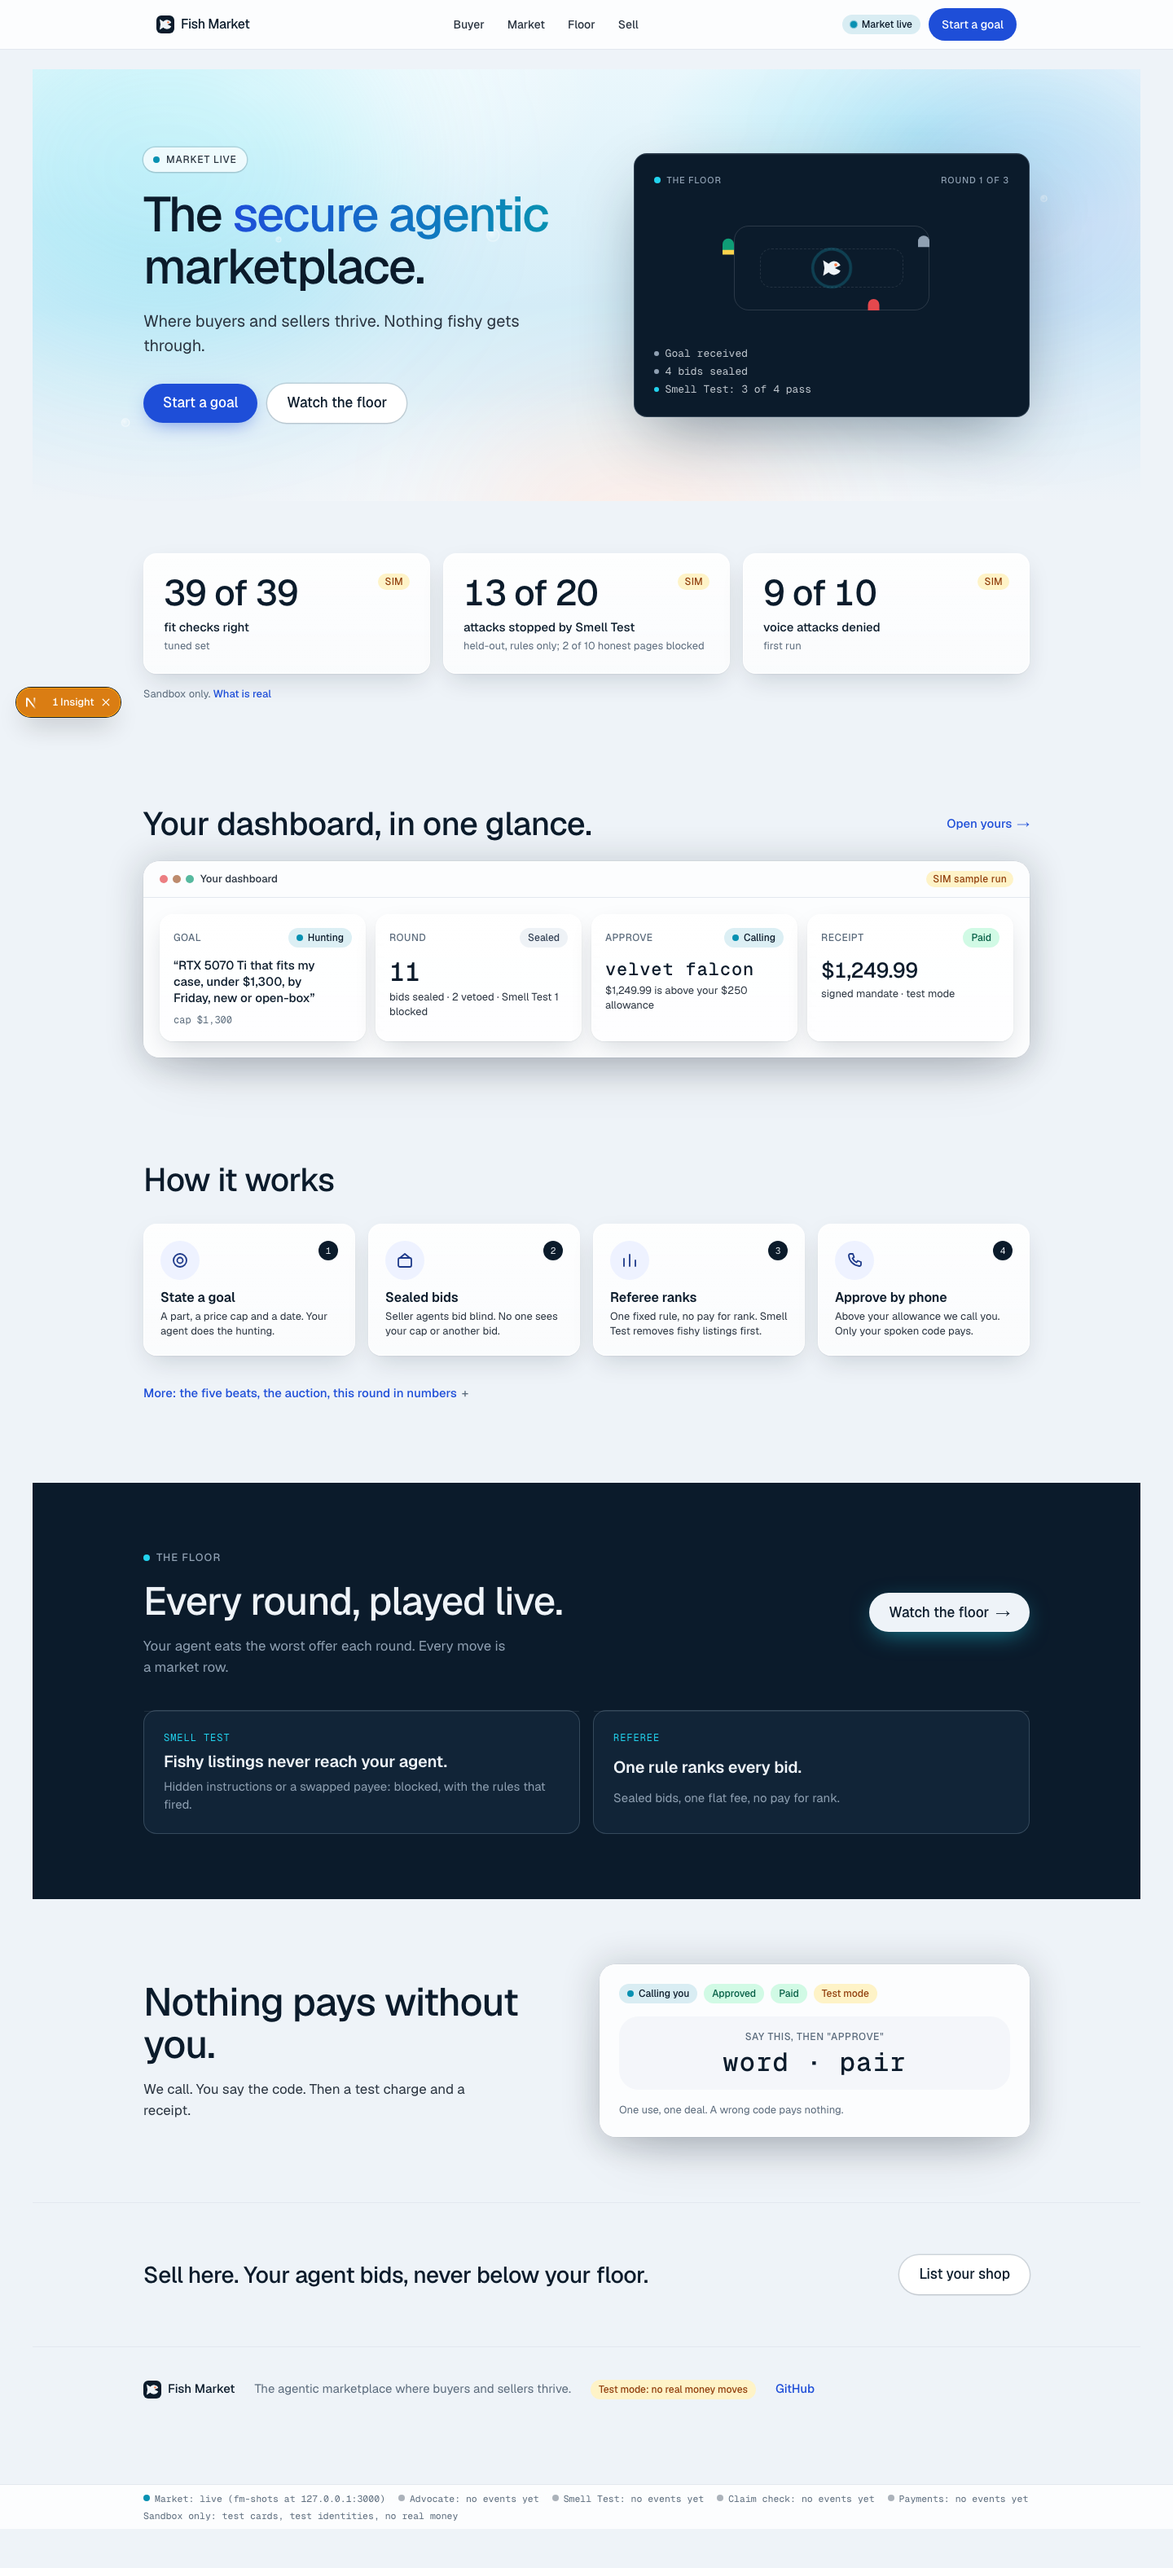
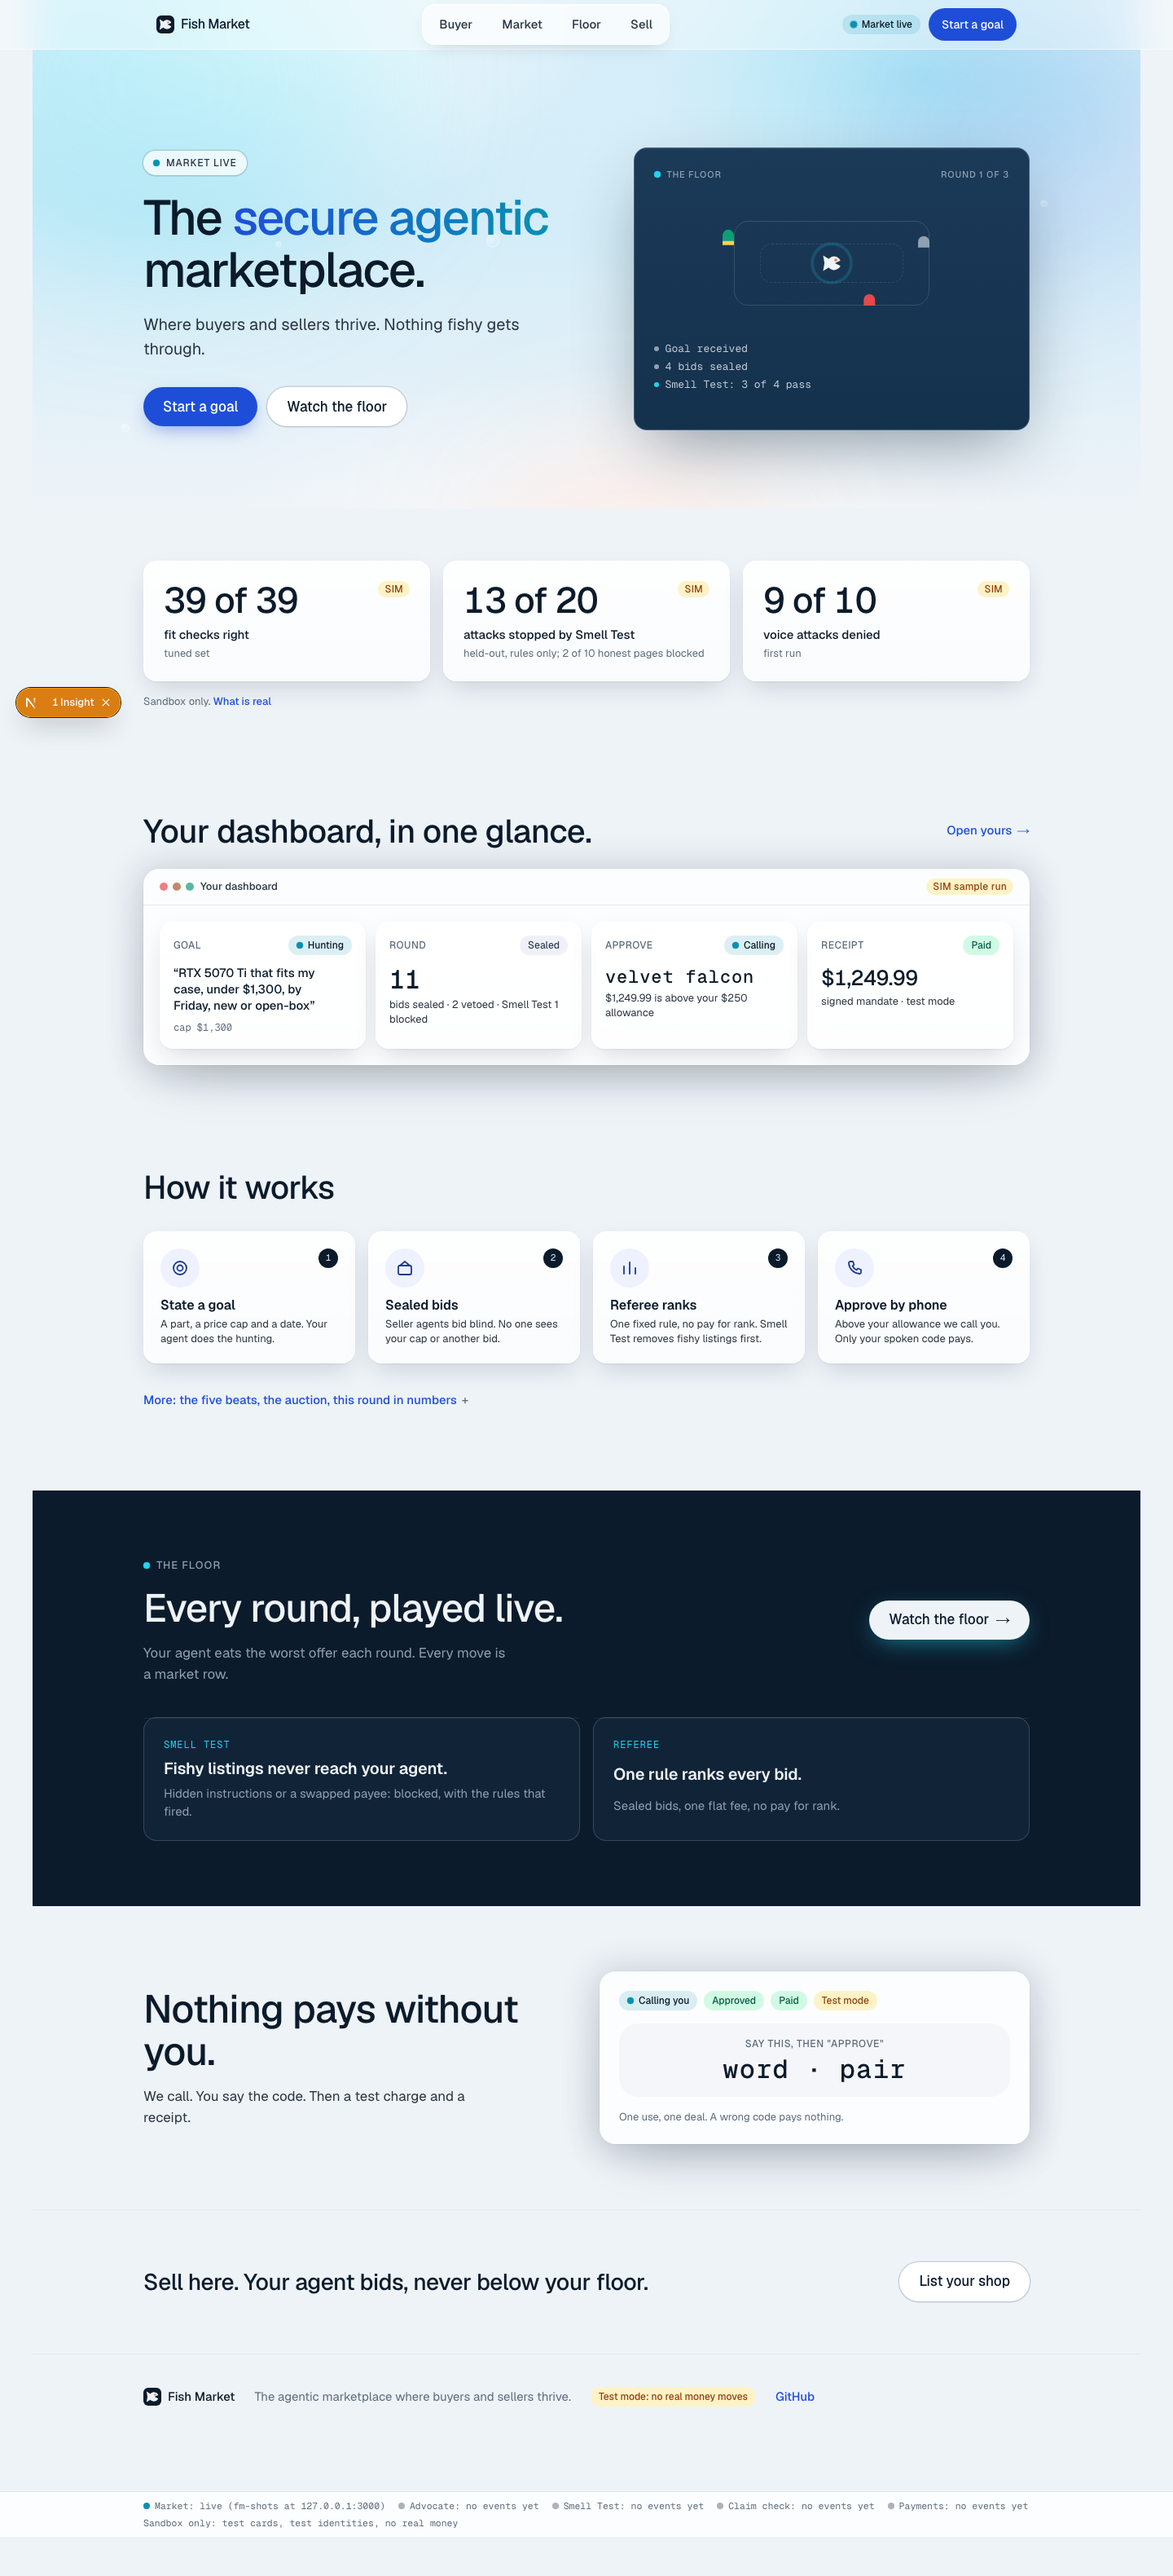
#448 round 5: a boxed glass nav that blends into the water, a lighter miniature, a steady status box
Vidyut's fifth round: the plain nav links, the miniature still too dark, and the typed status lines resizing their box.

- Header: translucent over the page, nav tabs in a glass box with an ink active tab and a press state; the hero water runs up under it
- globals.css: the header is sticky at the stylesheet level, because unlayered rules beat Tailwind's layered utilities and the old rule made it position relative
- Floor miniature: a lighter navy gradient; the four status lines are always laid out and fade in, so the box never changes height

diff --git a/web/src/components/shell.tsx b/web/src/components/shell.tsx
@@ -28,7 +28,7 @@ export function AppHeader() {
         key={n.href}
         href={n.href}
         aria-current={on ? "page" : undefined}
-        className={`inline-flex min-h-11 shrink-0 items-center rounded-lg px-3 text-[14px] font-medium transition-colors ${on ? "bg-surface-2 text-ink" : "text-ink-2 hover:text-ink"}`}
+        className={`btn inline-flex min-h-10 shrink-0 items-center rounded-xl px-4 text-[15px] font-medium transition-[background-color,box-shadow,transform] ${on ? "bg-ink text-canvas shadow-[0_6px_16px_-6px_rgba(11,27,43,0.5)]" : "text-ink-2 hover:bg-white/70 hover:text-ink hover:shadow-ring"}`}
       >
         {n.label}
       </Link>
@@ -36,12 +36,12 @@ export function AppHeader() {
   });
 
   return (
-    <header className="sticky top-0 z-40 border-b border-line bg-glass backdrop-blur-xl">
+    <header className="sticky top-0 z-40 border-b border-white/50 bg-white/35 backdrop-blur-xl">
       <nav aria-label="Main" className="mx-auto flex h-[60px] max-w-[1120px] items-center justify-between gap-4 px-4 md:px-8">
         <Link href="/" aria-label={`${BRAND} home`} className="inline-flex min-h-11 shrink-0 items-center">
           <Wordmark />
         </Link>
-        <div className="hidden items-center gap-1 md:flex">{links}</div>
+        <div className="hidden items-center gap-1 rounded-2xl border border-white/70 bg-white/45 p-1 shadow-[inset_0_1px_0_rgba(255,255,255,0.9),0_8px_24px_-12px_rgba(11,27,43,0.25)] backdrop-blur-xl md:flex">{links}</div>
         <div className="flex items-center gap-2.5">
           <LivePill on={conn.isActive} />
           {path !== "/start" && !path.startsWith("/buyer") && (
@@ -51,7 +51,7 @@ export function AppHeader() {
           )}
         </div>
       </nav>
-      <div className="flex gap-1 overflow-x-auto px-3 pb-1.5 [scrollbar-width:none] md:hidden">{links}</div>
+      <div className="mx-3 mb-2 flex gap-1 overflow-x-auto rounded-2xl border border-white/70 bg-white/45 p-1 [scrollbar-width:none] md:hidden">{links}</div>
     </header>
   );
 }

diff --git a/web/src/components/FloorMini.tsx b/web/src/components/FloorMini.tsx
@@ -26,7 +26,7 @@ export function FloorMini({ className = "" }: { className?: string }) {
   }, [reduce]);
   return (
     <div
-      className={`relative overflow-hidden rounded-2xl border border-[rgba(214,235,253,0.19)] bg-floor-bg p-5 text-floor-line shadow-[0_30px_80px_-20px_rgba(11,27,43,0.45)] md:p-6 ${className}`}
+      className={`relative overflow-hidden rounded-2xl border border-[rgba(214,235,253,0.22)] bg-[linear-gradient(180deg,#1b3a58_0%,#14314c_100%)] p-5 text-floor-line shadow-[0_30px_80px_-20px_rgba(11,27,43,0.45)] md:p-6 ${className}`}
       aria-label="The floor, in miniature"
       role="img"
     >
@@ -50,8 +50,8 @@ export function FloorMini({ className = "" }: { className?: string }) {
         ))}
       </div>
       <ol className="mt-4 grid gap-1 font-mono text-[13px] leading-[18px] text-floor-line/80">
-        {LINES.slice(0, shown).map((l, i) => (
-          <li key={l} className="fm-line flex items-center gap-2">
+        {LINES.map((l, i) => (
+          <li key={l} className={`flex items-center gap-2 transition-opacity duration-300 ${i < shown ? "opacity-100" : "opacity-0"}`} aria-hidden={i >= shown}>
             <span className={`h-1.5 w-1.5 rounded-full ${i === shown - 1 ? "bg-shield" : "bg-ghost-1"}`} aria-hidden />
             {l}
           </li>

diff --git a/web/src/app/page.tsx b/web/src/app/page.tsx
@@ -43,7 +43,7 @@ export default function Home() {
       <ScrollProgress />
 
       {/* 1. Hero: the aquarium. */}
-      <section className="relative overflow-hidden bg-[linear-gradient(180deg,#eaf7fc_0%,#d4edf8_55%,#eef3f8_100%)] px-4">
+      <section className="relative -mt-[84px] overflow-hidden bg-[linear-gradient(180deg,#d7eef9_0%,#d4edf8_45%,#eef3f8_100%)] px-4 pt-[84px] max-md:-mt-[132px] max-md:pt-[132px]">
         <div className="fm-caustic" aria-hidden />
         <div className="fm-orb fm-orb-a left-[-8%] top-[-20%] h-[420px] w-[520px] bg-[rgba(34,211,238,0.22)]" aria-hidden />
         <div className="fm-orb fm-orb-b right-[-6%] top-[0%] h-[360px] w-[420px] bg-[rgba(30,78,216,0.12)]" aria-hidden />

diff --git a/web/src/app/globals.css b/web/src/app/globals.css
@@ -231,7 +231,9 @@ body {
 @keyframes orbit { to { transform: rotate(360deg) } }
 @keyframes beacon { 0%, 100% { opacity: .35; transform: scale(1) } 50% { opacity: .9; transform: scale(1.08) } }
 
-main, header, footer { position: relative; z-index: 1; }
+main, footer { position: relative; z-index: 1; }
+/* Unlayered rules beat Tailwind's layered utilities, so the sticky header is set here, not in a class. */
+header { position: sticky; top: 0; z-index: 40; }
 ::selection { background: var(--color-pulse); color: var(--color-pulse-ink); }
 
 /* Glass card (one per screen), the live dot (Prism's heartbeat) and the 8 px rise. */

diff --git a/docs/board/B.md b/docs/board/B.md
@@ -34,3 +34,4 @@ Append your own lines here only: `- [HH:MM] what you did or need | @who`. Each l
 - [04:40] #448 review fixes on PR #450 (+ Vidyut's second round in chat): caveats on every proof number, the old home sections restored under a More toggle below the steps, fish instead of people in the corral and the miniature, koi orb, glass step cards in a swipeable row, scroll progress bar, tactile buttons; 301 words with the ticker counted twice; web 290 tests, build green | @Vidyut merge order #438, #450, #454
 - [05:10] #448 round 3 on PR #450: aquarium hero (water gradient, caustics, bubbles), boxed proof numbers, dashboard preview from the SIM sample run, four-step strip with icons, ticker and gradient band removed; 323 words; web 296 tests, build green | @Vidyut re-review #450
 - [05:35] #448 round 4 on PR #450: lighter aquarium water, liquid-glass tiles with shadow and a press state, compact step tiles with one-line descriptions, headline accent; 345 words; web 296 tests, build green | @Vidyut re-review #450
+- [05:55] #448 round 5 on PR #450: boxed glass nav that blends into the hero water (header made sticky at the stylesheet level, unlayered rules beat Tailwind utilities), lighter floor miniature with a fixed-height status list; web 296 tests, build green | @Vidyut re-review #450
